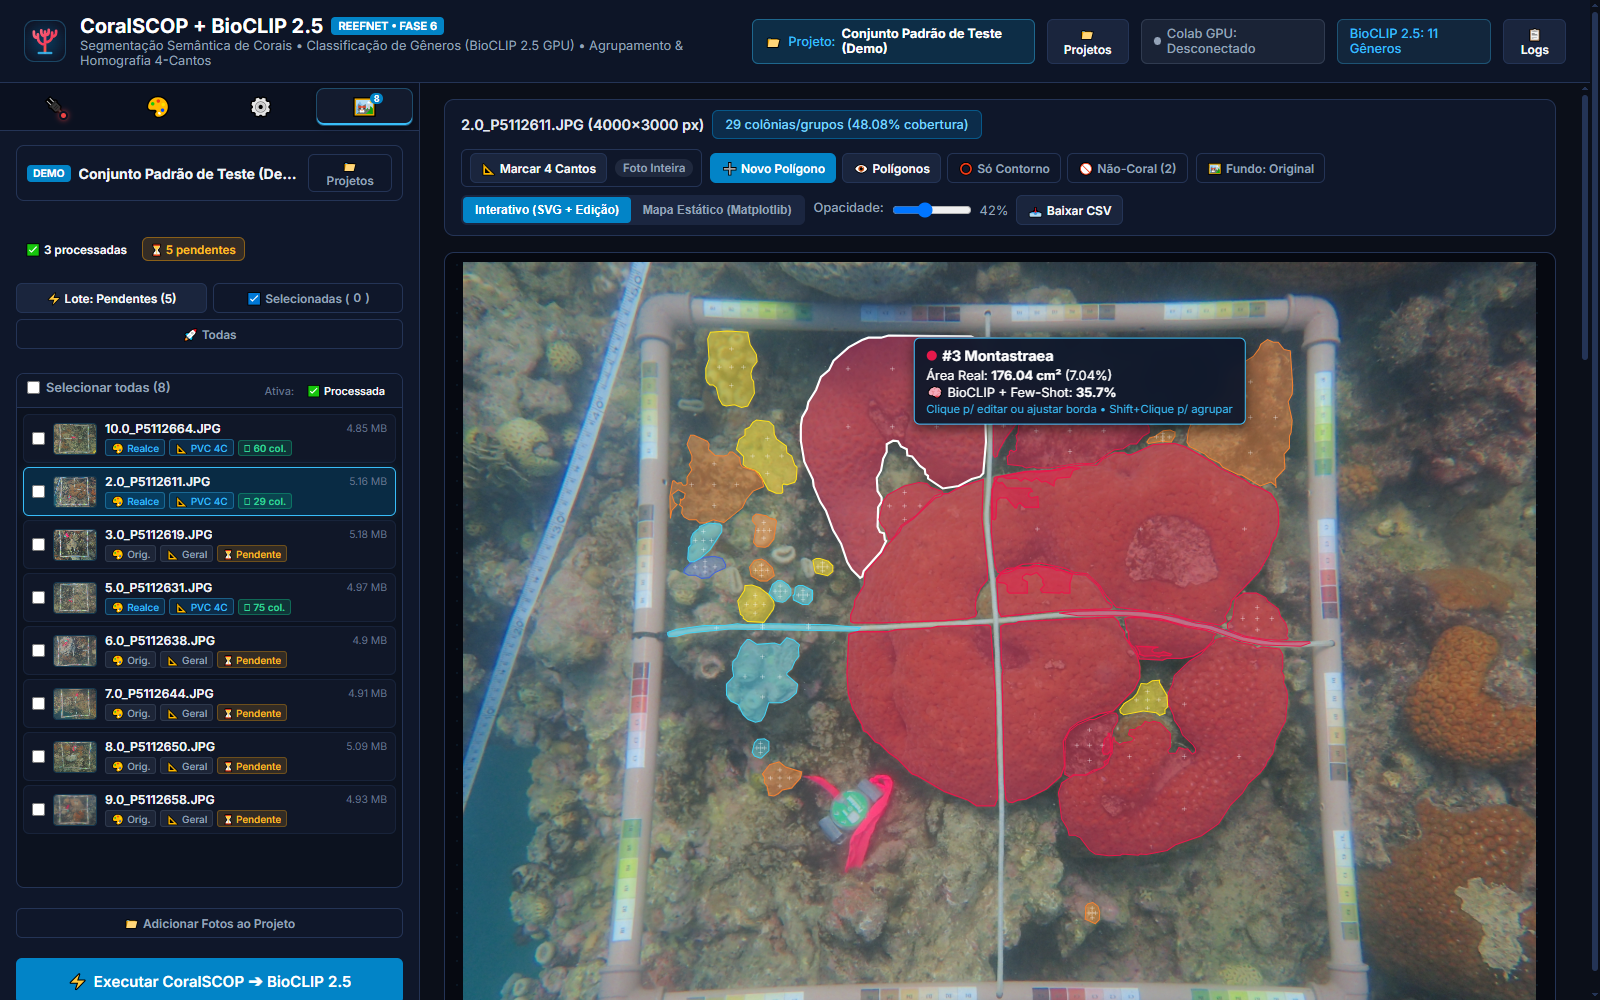
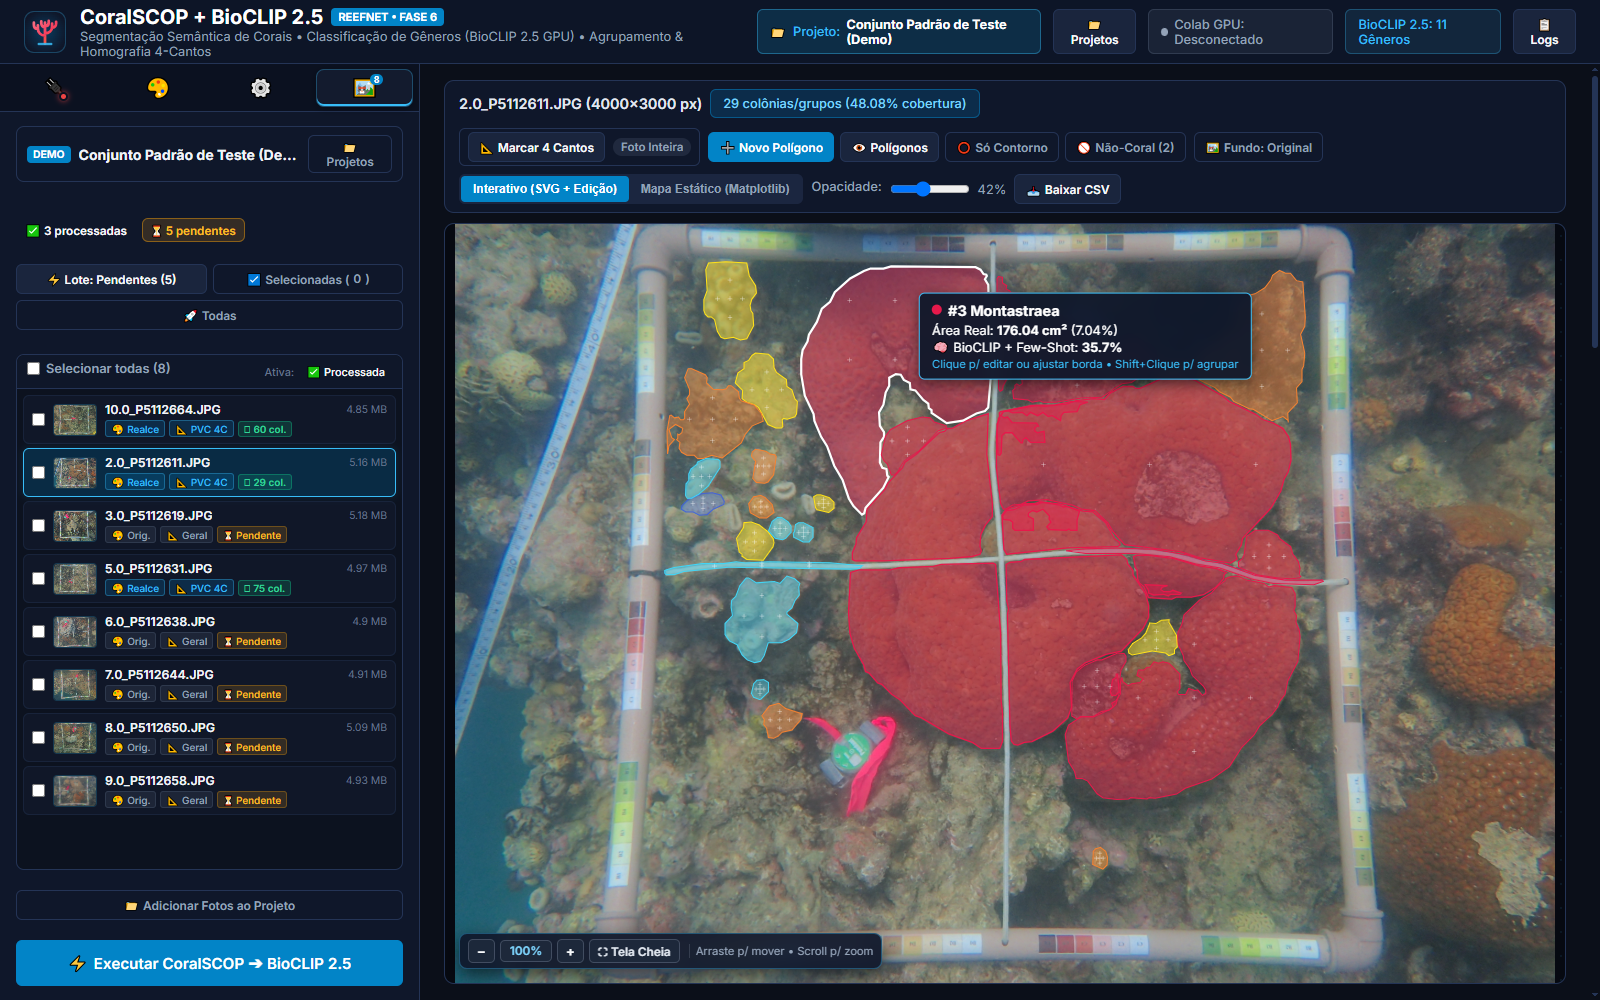
fix(ui): ajustar altura do canvas para 100% da primeira dobra e eliminar scroll fantasma global

diff --git a/static/css/style.css b/static/css/style.css
@@ -57,7 +57,9 @@ body {
   font-family: 'Inter', -apple-system, BlinkMacSystemFont, sans-serif;
   background-color: var(--bg-main);
   color: var(--text-main);
-  min-height: 100vh;
+  height: 100vh;
+  max-height: 100vh;
+  overflow: hidden;
   display: flex;
   flex-direction: column;
 }
@@ -66,10 +68,13 @@ body {
 .app-header {
   background-color: #0d1527;
   border-bottom: 1px solid var(--border-color);
-  padding: 14px 24px;
+  padding: 0 24px;
+  height: 64px;
+  max-height: 64px;
   display: flex;
   justify-content: space-between;
   align-items: center;
+  flex-shrink: 0;
   position: sticky;
   top: 0;
   z-index: 50;
@@ -168,6 +173,8 @@ body {
 .app-layout {
   display: grid;
   grid-template-columns: 420px 1fr;
+  height: calc(100vh - 64px);
+  max-height: calc(100vh - 64px);
   flex: 1;
   overflow: hidden;
 }
@@ -179,8 +186,8 @@ body {
   overflow: hidden;
   display: flex;
   flex-direction: column;
-  height: calc(100vh - 65px);
-  max-height: calc(100vh - 65px);
+  height: 100%;
+  max-height: 100%;
 }
 
 /* VS Code Style Activity Tab Bar */
@@ -627,9 +634,35 @@ label {
   display: flex;
   flex-direction: column;
   overflow-y: auto;
-  max-height: calc(100vh - 65px);
+  overflow-x: hidden;
+  height: 100%;
+  max-height: 100%;
   padding: 16px 24px;
   gap: 16px;
+}
+
+/* First-Fold Viewport Block (Toolbar + Canvas fitting 100% of visible viewport) */
+.canvas-viewport-block {
+  display: flex;
+  flex-direction: column;
+  gap: 10px;
+  height: calc(100vh - 64px - 32px);
+  min-height: calc(100vh - 64px - 32px);
+  max-height: calc(100vh - 64px - 32px);
+  flex-shrink: 0;
+  width: 100%;
+}
+
+.canvas-viewport-block .workspace-toolbar {
+  flex-shrink: 0;
+  padding: 8px 14px;
+}
+
+.canvas-viewport-block .viewer-container {
+  flex: 1;
+  min-height: 0;
+  height: 100%;
+  max-height: none;
 }
 
 .workspace-toolbar {
@@ -695,10 +728,9 @@ label {
 
 /* Viewer Container (Responsive Canvas Fit + Fullscreen Toggle) */
 .viewer-container {
-  height: calc(100vh - 175px);
-  min-height: 480px;
-  max-height: calc(100vh - 165px);
-  flex-shrink: 0;
+  flex: 1;
+  min-height: 0;
+  height: 100%;
   background-color: #060911;
   background-image: radial-gradient(rgba(56, 189, 248, 0.08) 1px, transparent 1px);
   background-size: 24px 24px;
@@ -804,7 +836,7 @@ label {
 
 .panzoom-layer img {
   max-width: 100%;
-  max-height: calc(100vh - 195px);
+  max-height: calc(100vh - 175px);
   width: auto;
   height: auto;
   display: block;

diff --git a/templates/index.html b/templates/index.html
@@ -421,8 +421,10 @@
 
     <!-- Main Workspace -->
     <section class="main-workspace">
-      <!-- Toolbar -->
-      <div class="workspace-toolbar">
+      <!-- First-Fold Viewport Block (Toolbar + Canvas fitting 100% of visible viewport) -->
+      <div class="canvas-viewport-block" id="canvas-viewport-block">
+        <!-- Toolbar -->
+        <div class="workspace-toolbar">
         <div class="toolbar-left">
           <span id="image-name-badge" class="toolbar-title">Nenhuma foto selecionada</span>
           <span id="colony-count-badge" class="badge badge-count" style="display: none;">0 colônias</span>
@@ -707,6 +709,8 @@
           </div>
         </div>
       </div>
+      <!-- End of canvas-viewport-block -->
+    </div>
 
       <!-- Ecological Summary Cards & Per-Group / Per-Colony Footer Table -->
       <div class="results-panel" id="results-panel" style="display: none;">
